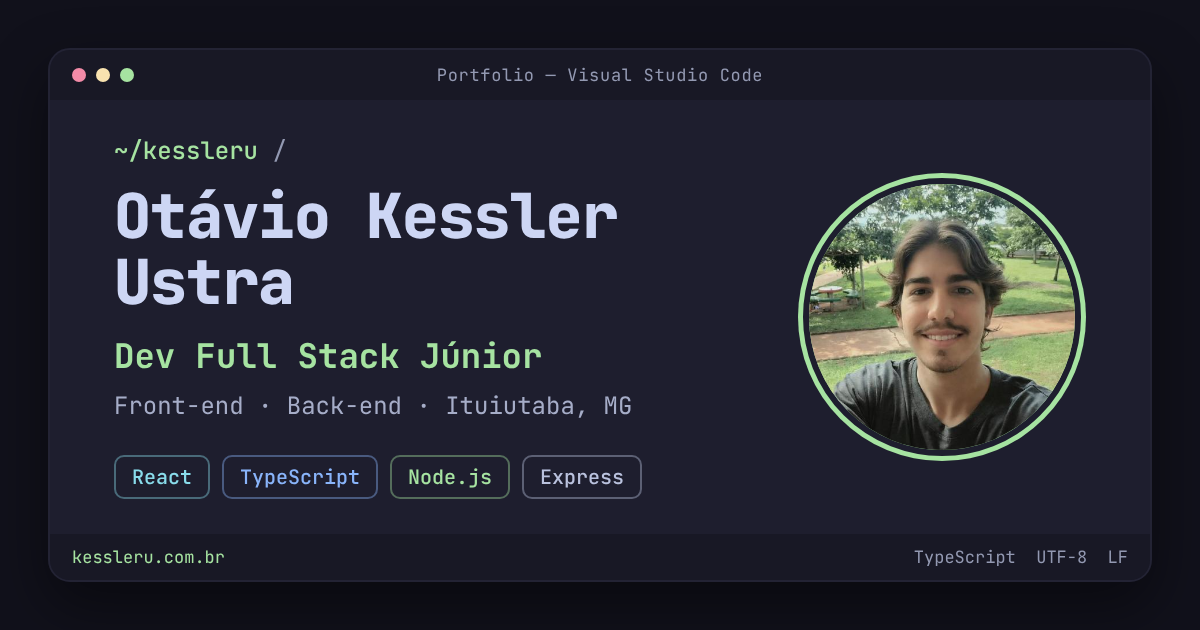
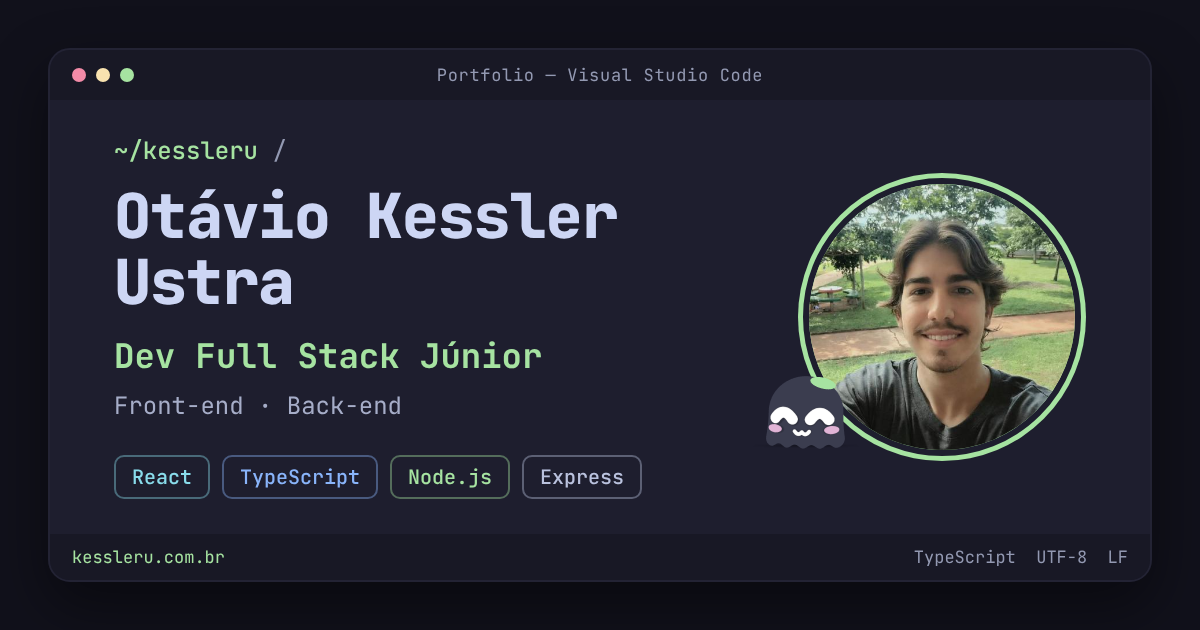
style: Kess na imagem de prévia do portfólio

Changed region(s): [[0.6167, 0.6032, 0.7092, 0.7238], [0.37, 0.6333, 0.5242, 0.6635]]

diff --git a/scripts/og/og.html b/scripts/og/og.html
@@ -61,6 +61,9 @@
         font-size: 20px;
         font-weight: 500;
       }
+      .photo-wrap { position: relative; flex: none; }
+      /* o Kess (o mascote do site) sentado na borda da foto */
+      kess-mascot { position: absolute; left: -58px; bottom: -14px; }
       .photo {
         flex: none;
         width: 288px;
@@ -103,7 +106,7 @@
           <p class="path">~/kessleru <b>/</b></p>
           <h1>Otávio Kessler Ustra</h1>
           <p class="role">Dev Full Stack Júnior</p>
-          <p class="where">Front-end · Back-end · Ituiutaba, MG</p>
+          <p class="where">Front-end · Back-end</p>
           <div class="chips">
             <span style="color: #89dceb; border-color: rgb(137 220 235 / 0.4)">React</span>
             <span style="color: #89b4fa; border-color: rgb(137 180 250 / 0.4)">TypeScript</span>
@@ -111,12 +114,22 @@
             <span style="color: #bac2de; border-color: rgb(186 194 222 / 0.4)">Express</span>
           </div>
         </div>
-        <div class="photo"><img src="avatar.jpg" alt="" /></div>
+        <div class="photo-wrap">
+          <div class="photo"><img src="avatar.jpg" alt="" /></div>
+          <kess-mascot mood="feliz" size="132" color="#a6e3a1" no-follow></kess-mascot>
+        </div>
       </div>
       <div class="status">
         <span class="site">kessleru.com.br</span>
         <span>TypeScript&nbsp;&nbsp;UTF-8&nbsp;&nbsp;LF</span>
       </div>
     </div>
+    <script src="../../src/lib/kess/kess.js"></script>
+    <script>
+      // olha para o nome, à esquerda
+      customElements.whenDefined('kess-mascot').then(() => {
+        document.querySelector('kess-mascot').gaze = { x: -0.7, y: -0.1 };
+      });
+    </script>
   </body>
 </html>
